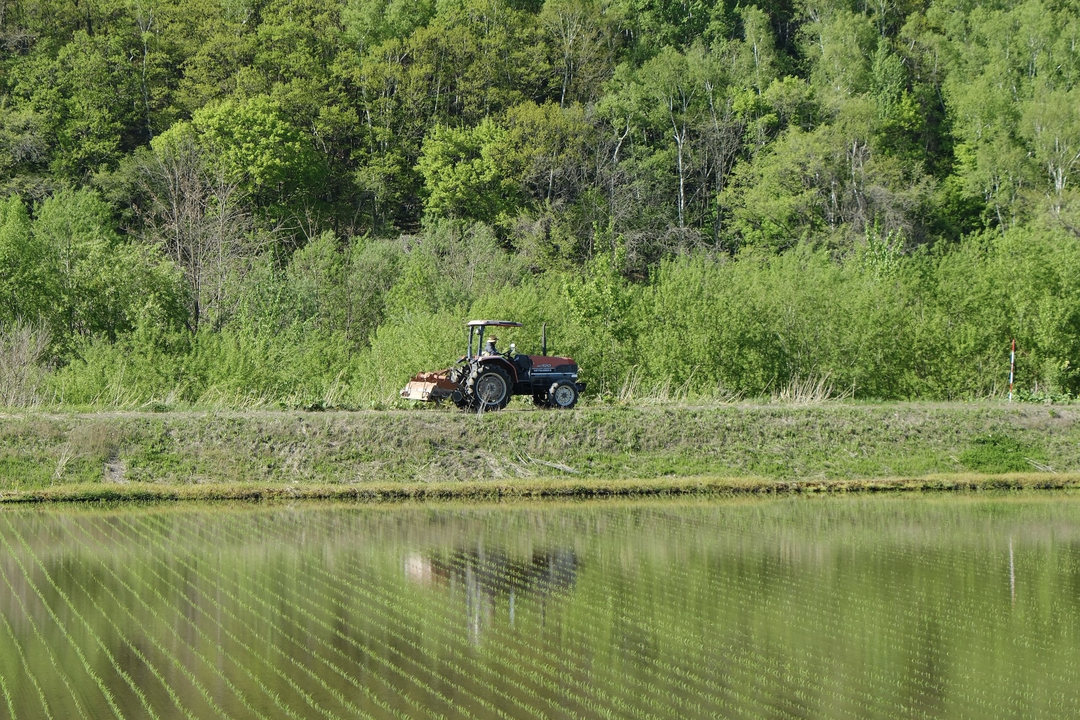
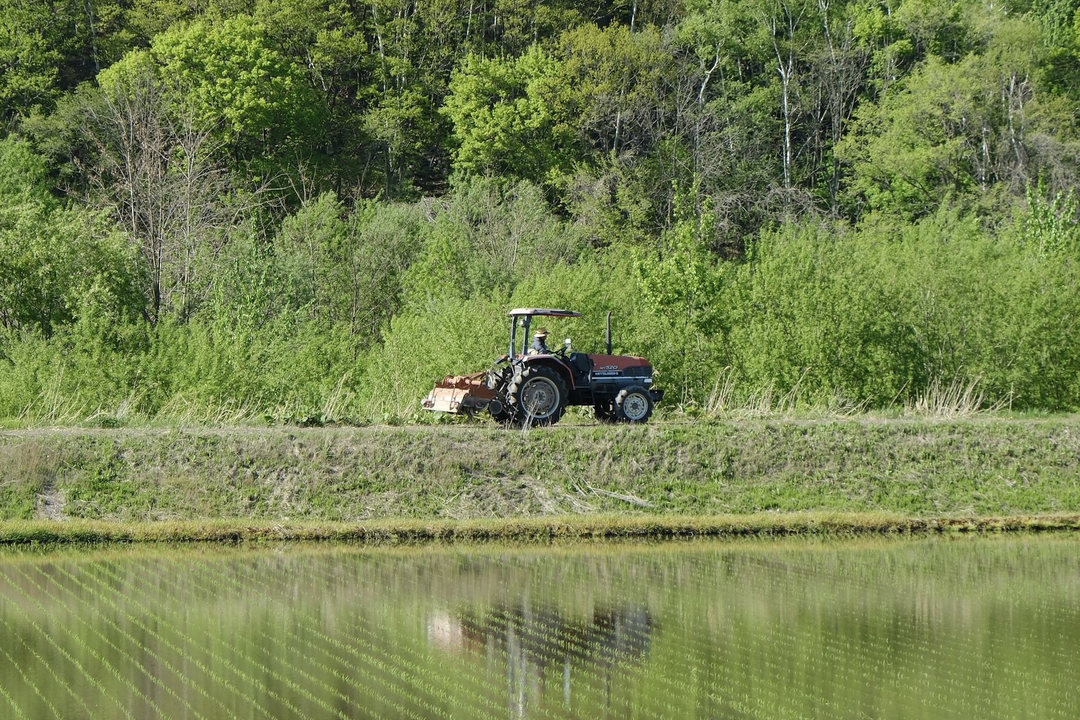
総合トップ：理念のロゴを大きく、農地の写真をトラクターが中央に来るように（未公開）
Claude-Session: https://claude.ai/code/session_018Q5UTR5BQhskagfSQoucGr

diff --git a/src/root/index.html b/src/root/index.html
@@ -177,7 +177,7 @@
   .nw{display:inline-block}
   .philo-h{margin-top:64px}
   .philo{position:relative;margin-top:8px;padding:12px 24px 24px;text-align:center;overflow:hidden}
-  .philo-mark{width:56px;height:56px;margin:0 auto 14px;display:block;opacity:.9}
+  .philo-mark{width:84px;height:84px;margin:0 auto 18px;display:block;opacity:.9}
   .philo-label{font-family:var(--gothic);font-size:13px;font-weight:700;letter-spacing:.4em;color:var(--blue);margin:0 0 18px;padding-left:.4em}
   .philo-motto{font-family:var(--mincho);font-weight:500;font-size:clamp(26px,3.4vw,36px);line-height:1.6;letter-spacing:.14em;color:var(--ink);margin:0 0 28px}
   .philo-motto .sp{display:none}
@@ -185,7 +185,7 @@
   .philo-in p{font-size:16px;line-height:2.1;margin:0 0 14px;color:var(--ink)}
   .philo-in .nw{display:inline-block}
   .philo-end{margin-top:18px!important;font-size:14.5px!important;color:var(--muted)!important;letter-spacing:.06em}
-  @media (max-width:720px){.philo{padding:8px 18px 16px}.philo-motto{font-size:27px;letter-spacing:.12em}.philo-motto .sp{display:inline}.philo-in p{font-size:15.5px}}
+  @media (max-width:720px){.philo{padding:8px 18px 16px}.philo-mark{width:72px;height:72px}.philo-motto{font-size:27px;letter-spacing:.12em}.philo-motto .sp{display:inline}.philo-in p{font-size:15.5px}}
 
   .topbar{max-width:1040px;width:100%;margin:0 auto;padding:14px 20px 0;display:flex;justify-content:flex-end}
   .lang-link{display:inline-flex;align-items:center;gap:7px;padding:8px 16px;border:1.5px solid var(--blue);border-radius:999px;color:var(--blue);font-size:14.5px;font-weight:700;letter-spacing:.02em;text-decoration:none;transition:background .3s,color .3s}
